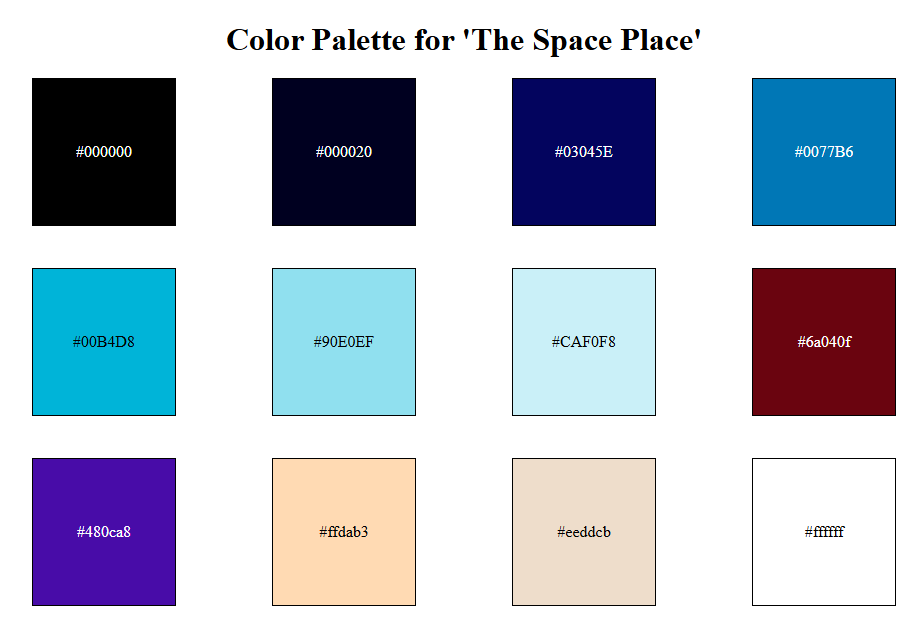
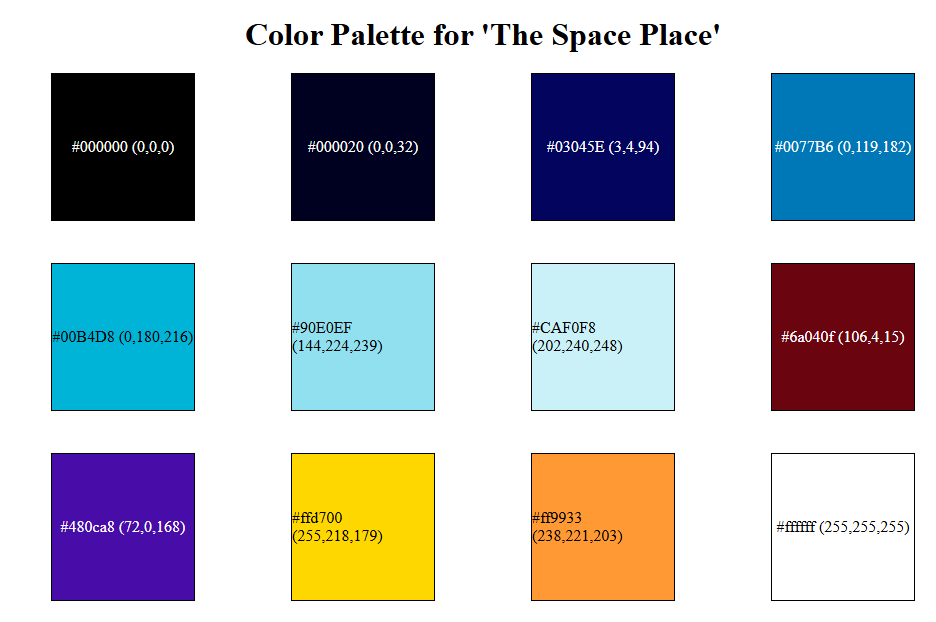
html change

diff --git a/colorPalette.html b/colorPalette.html
@@ -4,29 +4,29 @@
     <meta charset="UTF-8" />
     <meta name="viewport" content="width=device-width, initial-scale=1.0" />
     <title>Color Palette</title>
-    <link rel="stylesheet" href="index.css" />
+    <link rel="stylesheet" href="colorPalette.css" />
   </head>
   <body>
     <div class="container">
       <h1>Color Palette for 'The Space Place'</h1>
       <div class="color-row" id="row1">
-        <div class="color-card" id="card1">#000000</div>
-        <div class="color-card" id="card2">#000020</div>
-        <div class="color-card" id="card3">#03045E</div>
-        <div class="color-card" id="card4">#0077B6</div>
+        <div class="color-card" id="card1">#000000 (0,0,0)</div>
+        <div class="color-card" id="card2">#000020 (0,0,32)</div>
+        <div class="color-card" id="card3">#03045E (3,4,94)</div>
+        <div class="color-card" id="card4">#0077B6 (0,119,182)</div>
       </div>
 
       <div class="color-row" id="row2">
-        <div class="color-card" id="card5">#00B4D8</div>
-        <div class="color-card" id="card6">#90E0EF</div>
-        <div class="color-card" id="card7">#CAF0F8</div>
-        <div class="color-card" id="card8">#6a040f</div>
+        <div class="color-card" id="card5">#00B4D8 (0,180,216)</div>
+        <div class="color-card" id="card6">#90E0EF (144,224,239)</div>
+        <div class="color-card" id="card7">#CAF0F8 (202,240,248)</div>
+        <div class="color-card" id="card8">#6a040f (106,4,15)</div>
       </div>
       <div class="color-row" id="row3">
-        <div class="color-card" id="card9">#480ca8</div>
-        <div class="color-card" id="card10">#ffdab3</div>
-        <div class="color-card" id="card11">#eeddcb</div>
-        <div class="color-card" id="card12">#ffffff</div>
+        <div class="color-card" id="card9">#480ca8 (72,0,168)</div>
+        <div class="color-card" id="card10">#ffd700 (255,218,179)</div>
+        <div class="color-card" id="card11">#ff9933 (238,221,203)</div>
+        <div class="color-card" id="card12">#ffffff (255,255,255)</div>
       </div>
     </div>
   </body>

diff --git a/colorPalette.css b/colorPalette.css
@@ -84,11 +84,11 @@ h1 {
 }
 
 #card10 {
-  background-color: #ffdab3;
+  background-color: #ffd700;
 }
 
 #card11 {
-  background-color: #eeddcb;
+  background-color: #ff9933;
 }
 
 #card12 {
